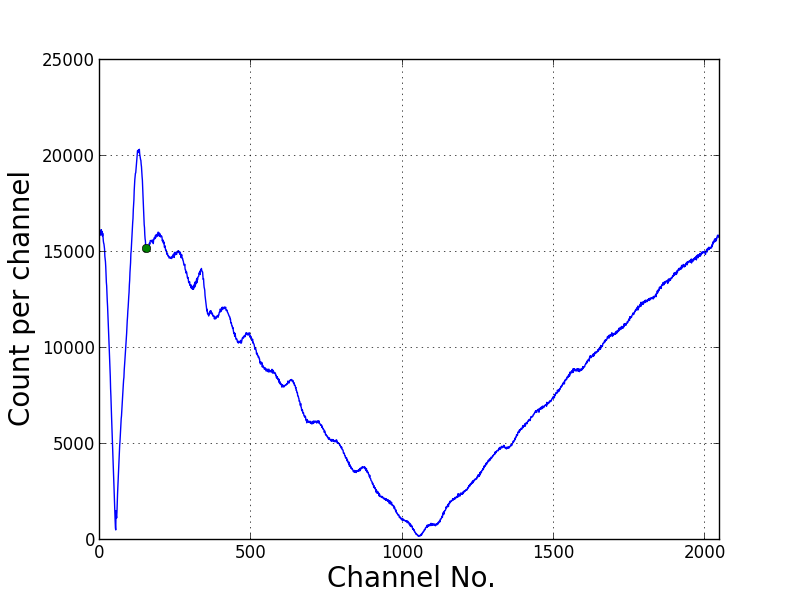
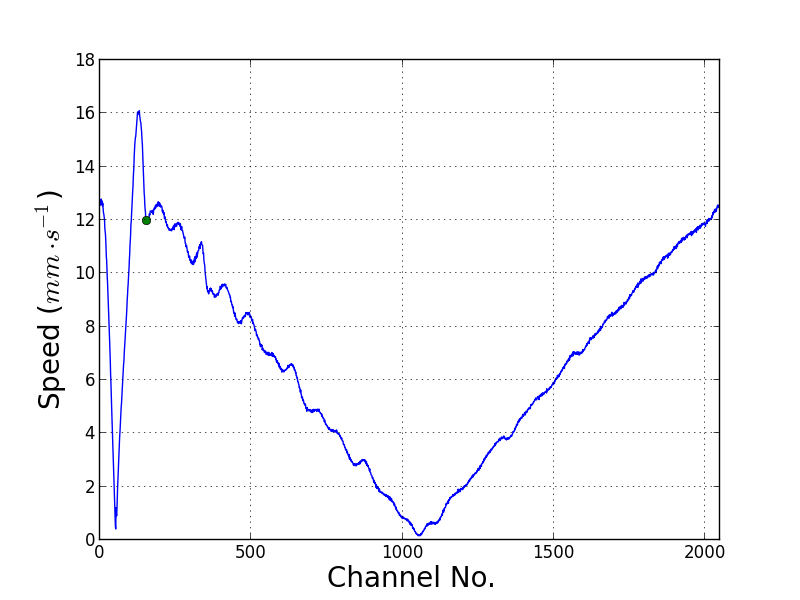
[mossbauer] calibration convert to speed

diff --git a/mossbauer/calib.py b/mossbauer/calib.py
@@ -3,8 +3,17 @@
 import jlab
 from pylab import *
 
+wavelength = 632.8e-9
+
+def read_cal_file(fname):
+    f = jlab.load_pyfile(fname)
+    index, data = array([(d[0], d[2]) for d in f.data]).T
+    passes = int(f.elapsed_passes)
+    c_time = float(f.mossbauer_dwell_time.split()[0]) * 1e-3
+    return index, wavelength * data / 2 / passes / c_time
+
 def calib(iname, fig_name):
-    index, data = array([(d[0], d[2]) for d in jlab.load_pyfile(iname).data]).T
+    index, data = read_cal_file(iname)
     max_i = data[:len(data) // 2].argmax()
     v = data[max_i]
     for start in range(max_i + 1, len(data)):
@@ -13,11 +22,11 @@ def calib(iname, fig_name):
         v = data[start]
 
     fig1 = figure()
-    plot(index, data)
-    plot(start, data[start], 'o')
+    plot(index, data * 1000)
+    plot(start, data[start] * 1000, 'o')
     xlim(0, len(data))
     xlabel("Channel No.")
-    ylabel("Count per channel")
+    ylabel(r"Speed ($mm\cdot s^{-1}$)")
     grid()
     savefig(fig_name + '_raw.png')
     close()
@@ -29,17 +38,19 @@ def calib(iname, fig_name):
     fit = jlab.fitlin(index, data)
 
     fig2 = figure()
-    plot(index, data, label="Measure")
-    plot(index, fit.yfit, label="Fit")
+    plot(index, data * 1000, label="Measure")
+    plot(index, fit.yfit * 1000, label="Fit")
     legend(loc=2)
     xlim(index[0], index[-1])
     xmin, xmax = xlim()
     ymin, ymax = ylim()
-    b, a = jlab.a_pm_s(fit)
-    text(xmin * .9 + xmax * .1, ymin * .4 + ymax * .6,
-         "$y = a\cdot x + b$\n$a=%s$\n$b=%s$" % (a, b), fontsize=20)
+    b, a = jlab.a_pm_s([fit.a * 1000, fit.s * 1000], tex=True)
+    text(xmin * .95 + xmax * 0.05, ymin * .4 + ymax * .6,
+         "$y = a\cdot x + b$\n$a=%s mm\cdot s^{-1}$\n$b=%s mm\cdot s^{-1}$" %
+         (a, b),
+         fontsize=20)
     xlabel("Channel No.")
-    ylabel("Count per channel")
+    ylabel(r"Speed ($mm\cdot s^{-1}$)")
     grid()
     savefig(fig_name + '_fit.png')
     close()

diff --git a/mossbauer/pos_cal_1/res_v.py b/mossbauer/pos_cal_1/res_v.py
@@ -1,4 +1,4 @@
-cov = [[431.34490738135474, -0.31431864123495173], [-0.31431864123495173, 0.00028535509871534427]]
-s = [20.768844632799262, 0.016892456858472193]
 start = 156
-a = [-18523.307674095904, 17.23030439914697]
+cov = [[2.6988431299527262e-10, -1.9666320176652525e-13], [-1.9666320176652525e-13, 1.7854126351931479e-16]]
+s = [1.6428156104544194e-05, 1.3361933375051486e-08]
+a = [-0.014651936370209881, 1.3629170779725269e-05]
